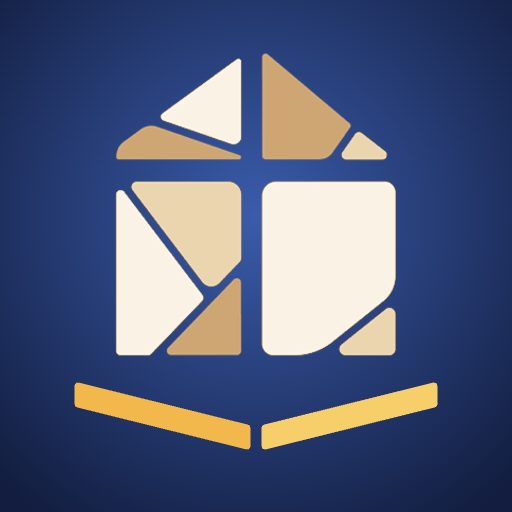
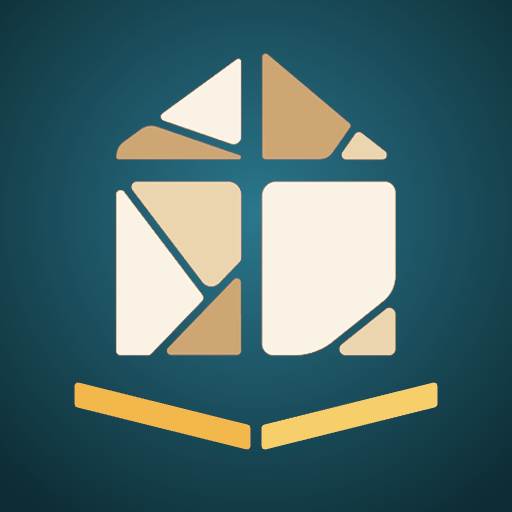
JB3 Kotbah: warna teal tua (#004E63) + ikon teal tua

Changed region(s): [[0.2812, 0.1875, 0.7188, 0.6562], [0.2812, 0.4062, 0.3438, 0.5]]

diff --git a/index.html b/index.html
@@ -6,9 +6,9 @@
 <meta name="theme-color" content="#E3E6EA" media="(prefers-color-scheme: light)">
 <meta name="theme-color" content="#0E131A" media="(prefers-color-scheme: dark)">
 <meta name="description" content="Susun naskah khotbah gaya Gereja JB3 — aplikasi di HP.">
-<link rel="icon" type="image/png" sizes="32x32" href="./favicon.png?v=2">
-<link rel="icon" type="image/png" sizes="192x192" href="./icon-192.png?v=2">
-<link rel="apple-touch-icon" href="./apple-touch-icon.png?v=2">
+<link rel="icon" type="image/png" sizes="32x32" href="./favicon.png?v=3">
+<link rel="icon" type="image/png" sizes="192x192" href="./icon-192.png?v=3">
+<link rel="apple-touch-icon" href="./apple-touch-icon.png?v=3">
 <style>[hidden]{display:none!important}img{max-width:100%}</style>
 <title>JB3 Kotbah</title>
 <link rel="preconnect" href="https://fonts.googleapis.com">
@@ -19,7 +19,7 @@
     --ground:#E3E6EA; --surface:#F3F5F7; --raised:#FBFCFD;
     --ink:#1B2530; --ink-soft:#485560; --ink-faint:#7B8994;
     --line:#C9D0D7; --line-soft:#DCE1E6;
-    --accent:#2C468A; --accent-ink:#20356B; --accent-soft:#DBE1F0; --on-accent:#FBFCFD;
+    --accent:#004E63; --accent-ink:#003A4A; --accent-soft:#D3E8EA; --on-accent:#FBFCFD;
     --rubric:#8F2F2B; --rubric-soft:#EDDAD8;
     --serif:"Libre Caslon Text",Georgia,"Times New Roman",serif;
     --text:"Spectral",Georgia,"Times New Roman",serif;
@@ -31,7 +31,7 @@
       --ground:#11161D; --surface:#1A212B; --raised:#212A35;
       --ink:#DCE2E8; --ink-soft:#9AA6B1; --ink-faint:#6C7883;
       --line:#2B3540; --line-soft:#222B35;
-      --accent:#8AA8E6; --accent-ink:#AAC0EE; --accent-soft:#26324A; --on-accent:#12171E;
+      --accent:#5CC4C2; --accent-ink:#8ED8D5; --accent-soft:#173A40; --on-accent:#12171E;
       --rubric:#DA867F; --rubric-soft:#382A29;
     }
   }
@@ -39,7 +39,7 @@
     --ground:#11161D; --surface:#1A212B; --raised:#212A35;
     --ink:#DCE2E8; --ink-soft:#9AA6B1; --ink-faint:#6C7883;
     --line:#2B3540; --line-soft:#222B35;
-    --accent:#8AA8E6; --accent-ink:#AAC0EE; --accent-soft:#26324A; --on-accent:#12171E;
+    --accent:#5CC4C2; --accent-ink:#8ED8D5; --accent-soft:#173A40; --on-accent:#12171E;
     --rubric:#DA867F; --rubric-soft:#382A29;
   }
 
@@ -467,14 +467,14 @@
   /* ---- beranda ---- */
   .hero{
     position:relative; overflow:hidden; border-radius:20px; padding:20px 18px 18px; margin:0 0 14px;
-    background:linear-gradient(135deg, var(--accent) 0%, #3F5FA8 60%, #5B4E9C 100%); color:#fff;
+    background:linear-gradient(135deg, var(--accent) 0%, #0A6E7A 60%, #0E9895 100%); color:#fff;
     box-shadow:var(--shadow);
   }
   .hero::after{content:""; position:absolute; right:-40px; top:-40px; width:170px; height:170px; border-radius:50%; background:rgba(255,255,255,.08)}
   .hero .greet{margin:0; font-family:var(--mono); font-size:10.5px; letter-spacing:.14em; text-transform:uppercase; opacity:.8}
   .hero h2{position:relative; z-index:1; font-family:var(--serif); font-size:21px; line-height:1.28; margin:6px 0 16px; max-width:17em}
-  .hero-cta{position:relative; z-index:1; display:inline-flex; align-items:center; gap:8px; background:#fff; color:#20356B; border-color:#fff}
-  .hero-cta:hover{background:#EEF2FA; border-color:#EEF2FA; color:#20356B}
+  .hero-cta{position:relative; z-index:1; display:inline-flex; align-items:center; gap:8px; background:#fff; color:#003A4A; border-color:#fff}
+  .hero-cta:hover{background:#E6F3F3; border-color:#E6F3F3; color:#003A4A}
   .hero-cta svg{width:16px; height:16px; fill:none; stroke:currentColor; stroke-width:1.9; stroke-linecap:round; stroke-linejoin:round}
 
   .stats{display:grid; grid-template-columns:repeat(3,1fr); gap:9px; margin:0 0 20px}
@@ -997,7 +997,7 @@ window.__SK_STORE__ = (function(){
       +     'border-radius:9px;background:#161D26;color:#DCE2E8;margin-bottom:9px">'
       +   '<button type="submit" id="skB" style="width:100%;padding:12px;font-size:11px;font-family:inherit;'
       +     'letter-spacing:.08em;text-transform:uppercase;font-weight:700;border:0;border-radius:9px;'
-      +     'background:#8AA8E6;color:#12171E;cursor:pointer">Masuk</button>'
+      +     'background:#5CC4C2;color:#12171E;cursor:pointer">Masuk</button>'
       + '</form>'
       + '<div id="skM" style="font-size:12px;line-height:1.5;color:#9AA6B1;margin-top:12px;'
       +   'word-break:break-word;white-space:pre-wrap"></div>'
@@ -1115,7 +1115,7 @@ window.__SK_STORE__ = (function(){
   var HKEY="susunkhotbah.history.v1";
   var CATS=["Keluarga","Pemuridan","Keuangan","Kepemimpinan","Pelayanan","Karakter","Penginjilan","Doa & Ibadah","Hari Raya","Umum"];
   var CATCOL={
-    "Keluarga":"#B5644C","Pemuridan":"#2C468A","Keuangan":"#3E7A5E","Kepemimpinan":"#6A4E9C",
+    "Keluarga":"#B5644C","Pemuridan":"#004E63","Keuangan":"#3E7A5E","Kepemimpinan":"#6A4E9C",
     "Pelayanan":"#1F7A8C","Karakter":"#9C6B2E","Penginjilan":"#A03D6B","Doa & Ibadah":"#4A6DA7",
     "Hari Raya":"#8F2F2B","Umum":"#7B8994"
   };
@@ -1380,7 +1380,7 @@ window.__SK_STORE__ = (function(){
       "<head><meta charset='utf-8'><title>"+title+"</title>"+
       "<!--[if gte mso 9]><xml><w:WordDocument><w:View>Print</w:View><w:Zoom>100</w:Zoom></w:WordDocument></xml><![endif]-->"+
       "<style>@page{size:A4;margin:2.2cm} body{font-family:'Times New Roman',Georgia,serif;font-size:12pt;line-height:1.5;color:#141920}"+
-      "h1{font-size:19pt;margin:0 0 12pt} h2{font-size:14pt;color:#20356B;margin:16pt 0 6pt}"+
+      "h1{font-size:19pt;margin:0 0 12pt} h2{font-size:14pt;color:#003A4A;margin:16pt 0 6pt}"+
       "h3{font-size:10pt;letter-spacing:.04em;text-transform:uppercase;color:#6E7882;margin:10pt 0 4pt}"+
       "p{margin:0 0 7pt} blockquote{margin:0 0 8pt 1cm;font-style:italic;color:#3C4650}</style></head><body>"+
       body+"</body></html>";
